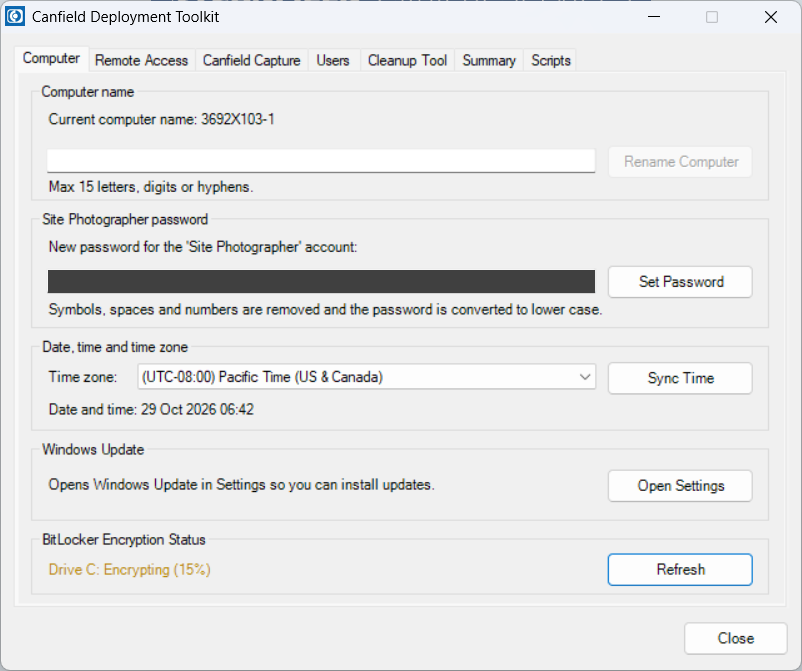
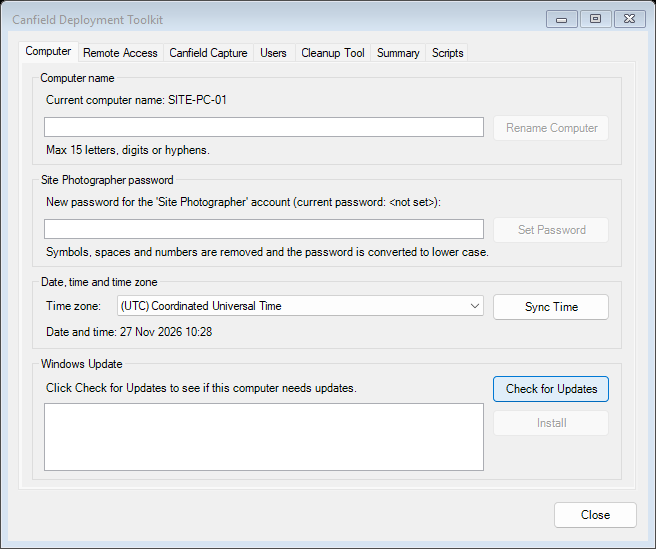
Update user guide for recent changes (#19)
Assisted-by: Claude

diff --git a/USER-GUIDE.md b/USER-GUIDE.md
@@ -9,7 +9,8 @@ the job. This guide explains what each tab is for and how to use it.
 Have these ready:
 
 - A USB drive with the Canfield Capture installer folders (each with a `setup.exe`).
-- `sponsors.csv` next to `CDT.exe`, for installing LogMeIn.
+- The sponsor list for LogMeIn. `CDT.exe` has one built in; a `sponsors.csv`
+  next to `CDT.exe` takes its place if present.
 - The `Scripts` folder next to `CDT.exe`, for the Canfield scripts and Resolve MDM.
 - A network connection (LogMeIn is downloaded during install).
 
@@ -23,15 +24,17 @@ Basic computer settings.
 ![Computer tab](images/01-computer.png)
 
 - **Rename Computer**: type the new name (up to 15 letters, digits or
-  hyphens) and click **Rename Computer**. The toolkit offers to restart,
-  which is needed for the new name to take effect.
-- **Site Photographer password**: type the password and click
+  hyphens) and click **Rename Computer**. The current name shows above the
+  box, along with the new name until you restart. The toolkit offers to
+  restart, which is needed for the new name to take effect.
+- **Site Photographer password**: the label shows the current password, or
+  `<not set>` if the toolkit has not set one. Type the new password and click
   **Set Password**. Symbols, spaces and numbers are removed and letters are
   made lower case. The password never expires.
 - **Time zone**: pick the site's time zone from the list. It applies right
   away. Click **Sync Time** to set the clock from the internet time server.
 - **Windows Update**: click **Check for Updates**. The check runs in the
-  background and can take a few minutes. It then shows **Up to date** in
+  background and can take a few minutes, with a running timer. It then shows **Up to date** in
   green, or how many updates are available in amber, with their names
   listed below. Click **Install** to install them; this can take a while.
   When it finishes, the list shows which updates installed, failed or were
@@ -44,13 +47,17 @@ Sets up remote support.
 ![Remote Access tab](images/02-remote-access.png)
 
 - **LogMeIn**: choose the study sponsor and click **Install LogMeIn**. The
-  toolkit downloads and installs LogMeIn into that sponsor's account. If
-  LogMeIn is already installed, it asks before reinstalling.
+  toolkit downloads and installs LogMeIn into that sponsor's account. The
+  status line shows whether LogMeIn is installed, and if it is, the toolkit
+  asks before reinstalling.
 - **Resolve MDM**: click **Enroll** to enroll the computer in device
   management. The status line shows whether it is already enrolled.
-- **BitLocker**: shows whether the system drive is encrypted. Green means
-  encrypted, amber means encryption is in progress, and red means not
-  encrypted or no recovery key.
+  Enrolling needs `CanfieldScientific.ppkg` in the `Scripts` folder.
+- **BitLocker Encryption Status**: shows whether the system drive is
+  encrypted. Green means encrypted, amber means encrypting or decrypting
+  (with the percentage, which updates every 10 seconds), and red means not
+  encrypted, protection off, or no recovery key. Click **Refresh** to check
+  again.
 
 ## Canfield Capture Tab
 
@@ -85,10 +92,10 @@ used much as we move to SSO.
 - **Create site user**: enter first and last name (and a prefix if
   needed). The username fills in automatically and can be edited. The
   temporary password is `Photo321`; the user must choose a new one at first
-  sign-in.
+  sign-in. New users are added to the `SSCT` group.
 - If every installed protocol uses single sign-on (SSO), a red note under
   **Create User** says so, since local users are usually not needed.
-- Select a user in the list to **Reset Password**, **Change Name** or
+- The list shows the users in the `SSCT` group. Select a user to **Reset Password**, **Change Name** or
   **Delete User**. Built-in accounts (Site Photographer, SharedAdmin,
   Administrator, and the signed-in account) cannot be deleted.
 - **Create SharedAdmin Account** asks for a password and creates the shared
@@ -116,9 +123,10 @@ A final check of the whole setup, and the QC report.
 
 ![Summary tab](images/06-summary.png)
 
-1. Review the list: computer name, service tag, time zone, Wi-Fi, BitLocker,
-   LogMeIn, Resolve MDM, Canfield Capture versions, site users, and each
-   protocol's Site ID.
+1. Review the list: computer name, service tag, model, date and time, time
+   zone, Wi-Fi, BitLocker, LogMeIn, Resolve MDM, Canfield Capture versions
+   and site users. Below it, each installed protocol shows its version,
+   Site ID and whether it uses SSO. Click **Refresh** to check again.
 2. Enter your initials and any comments.
 3. Click **Save Report**. It saves a picture of the window (JPG) and a text
    file with the same details.
@@ -143,6 +151,7 @@ missing.
 | Problem | What to do |
 |---|---|
 | No sponsors in the LogMeIn list | Put `sponsors.csv` next to `CDT.exe` and restart the toolkit. |
+| Resolve MDM says `CanfieldScientific.ppkg` not found | Put the `Scripts` folder, with the `.ppkg` inside, next to `CDT.exe`. |
 | Script or Resolve MDM buttons are greyed out | Put the `Scripts` folder next to `CDT.exe`. |
 | "No installer found on the USB drive" | Check the drive has folders containing `setup.exe` and click **Scan USB**, or click **Browse...** and pick the `setup.exe`. |
 | Canfield Capture install reports an error code | Run that installer's `setup.exe` from the USB drive by hand. |

diff --git a/.claude/skills/run-canfield-deployment-toolkit/SKILL.md b/.claude/skills/run-canfield-deployment-toolkit/SKILL.md
@@ -61,7 +61,7 @@ from `src\` (`$tabs`, `$nameBox`, `$btnName`, `$txtRequest`, `$txtResponse`, ...
 | `$script:dialogs` | Count of message boxes answered so far |
 
 Boxes are answered **No** (else OK/Cancel); pass `-DialogAnswer Yes` to say Yes. A throw in the steps
-fails the job with `DRIVER ERROR:` in the log. To run your own steps on a branch, add them to
+fails the job with `DRIVER ERROR:` in the log. `steps-guide.ps1` retakes the user guide's Computer and Remote Access shots with placeholder data. To run your own steps on a branch, add them to
 `steps-default.ps1` on that branch. Once `screenshots.yml` is on `master`, `workflow_dispatch` also takes a
 `steps` input (not yet tried, since dispatch only works for workflows on the default branch).
 
